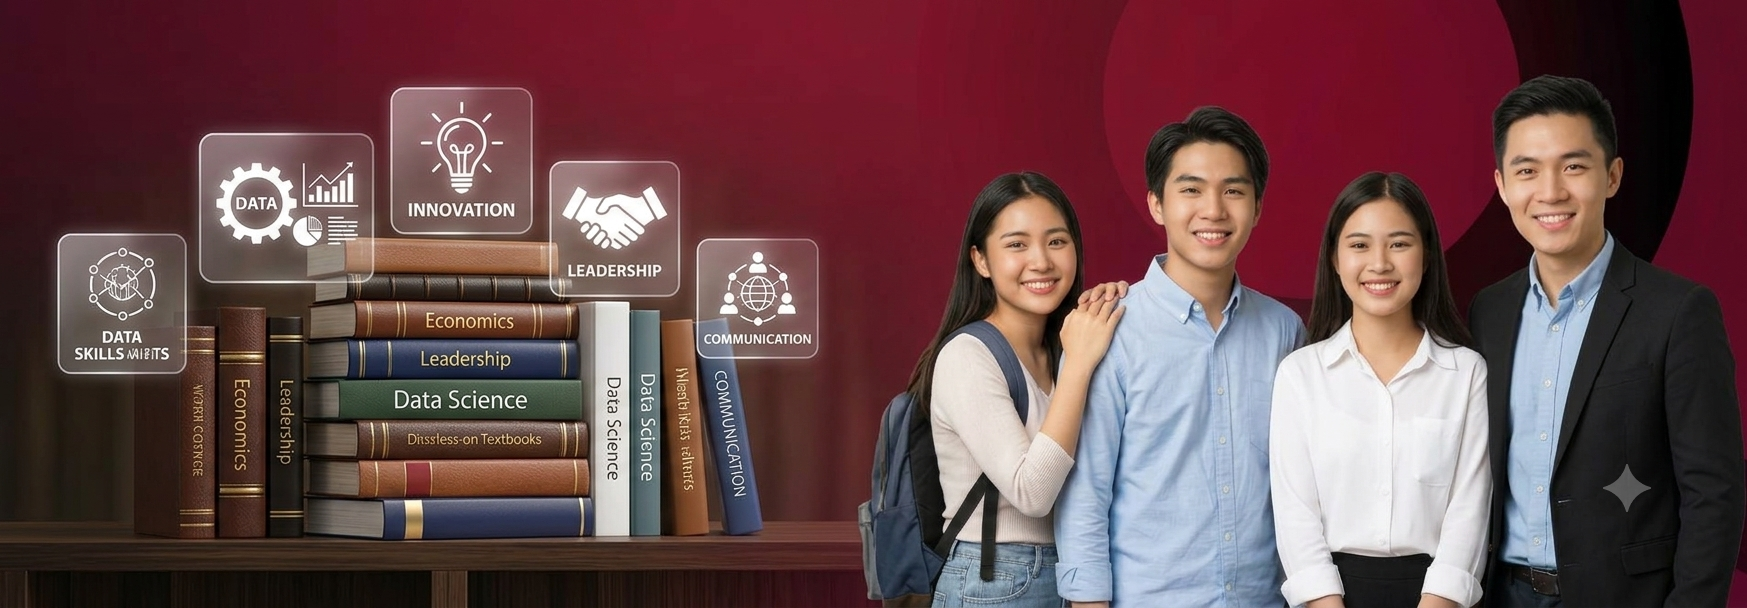
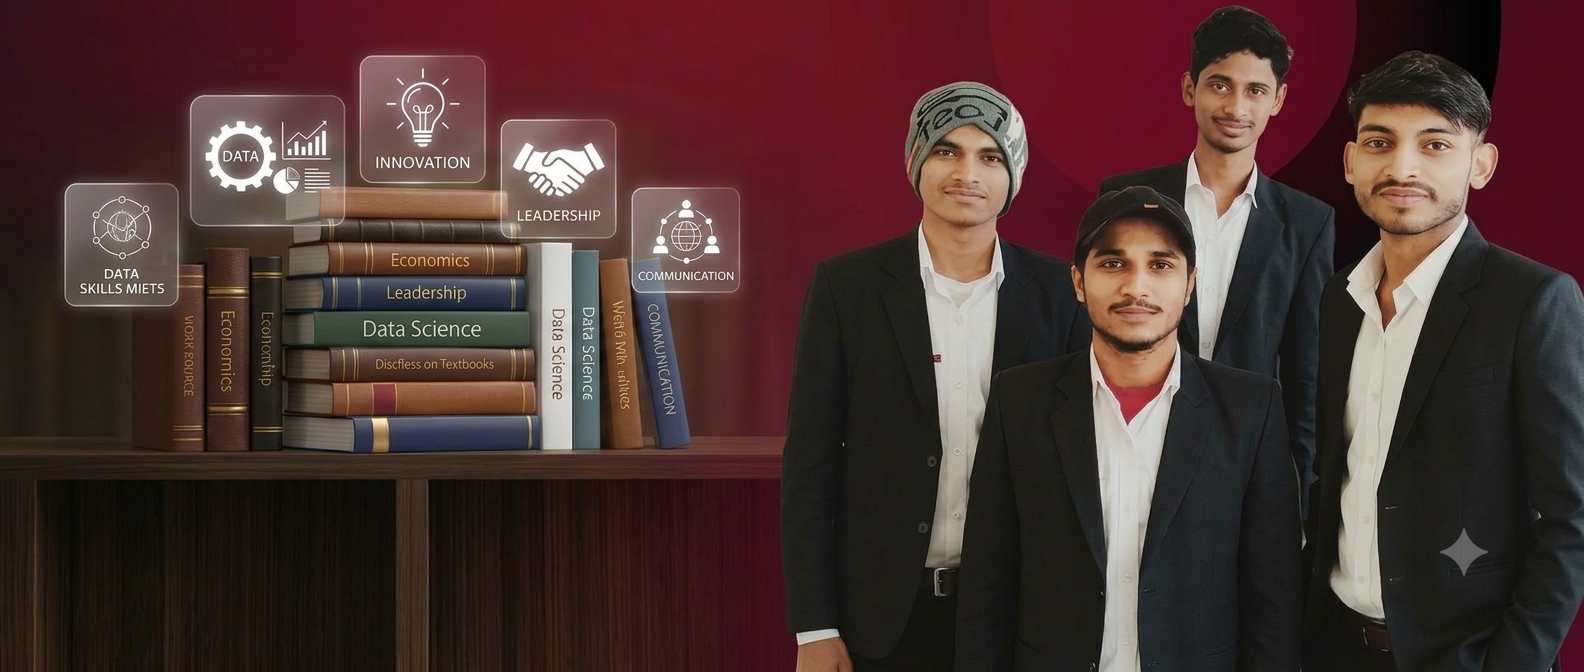
Design sidebar for subject

diff --git a/Frontend/myApp/src/PageTab/Class1.jsx b/Frontend/myApp/src/PageTab/Class1.jsx
@@ -1,19 +1,16 @@
 import React from 'react'
 import "./ForClassPage.css";
+import { Link } from 'react-router-dom';
 const Class1 = () => {
   return (
-    <div id="Class-Design">Class1
-      <p>this is our class page</p>
-      <p>Lorem, ipsum dolor sit amet consectetur adipisicing elit. Exercitationem fugiat quod delectus alias. Aliquam tempora nesciunt quaerat explicabo sunt odio nemo rem. Enim facere in ea nihil a sapiente animi?
-      Voluptas quibusdam commodi qui. Porro laudantium harum ut quisquam recusandae, commodi quos quo sit sequi? Ea cumque, ipsam totam ab sed, eligendi voluptatum nesciunt sequi obcaecati omnis voluptatem similique perspiciatis?
-      Amet, tempora nulla? Odit praesentium eaque ratione harum iure eligendi nemo repellat pariatur veritatis nobis corporis cumque totam rerum, hic ipsa maxime? Dicta quis, vero ipsa architecto dolores cupiditate possimus!
-      Eos inventore est qui cupiditate rem eveniet quod sequi earum similique repellendus dolores, corrupti laudantium iusto voluptates? Quae, impedit. Ex, aliquid sequi ipsum doloremque aspernatur necessitatibus? Nisi corporis incidunt et!
-      Quisquam expedita et deserunt consequatur possimus quas ut facilis, voluptate aut incidunt unde dolorum? Laudantium ipsum voluptatem nam doloremque obcaecati cumque, cupiditate aut explicabo officiis sit, sapiente voluptatum eaque harum?
-      Delectus quasi dolores impedit expedita? Magnam rem voluptate nemo, eligendi vel dolore optio quos itaque vero sapiente quo praesentium voluptatibus tempore, incidunt blanditiis quibusdam qui laborum eos aut quisquam maiores.
-      Quos nisi non nobis eos magni nam, dolor, nostrum sit qui mollitia debitis fuga repudiandae cumque quasi pariatur, corrupti in? Quis amet expedita cum pariatur numquam veniam ea sequi quod.
-      Saepe ratione expedita consectetur deleniti animi rem alias nobis deserunt, quas omnis iste beatae reprehenderit in a hic totam tenetur assumenda similique harum culpa veritatis quaerat minus nostrum architecto. Et.
-      Nostrum, nemo repellendus, quos sit, cum atque optio amet vel ut quasi voluptatibus soluta eaque id dolor consequuntur molestias assumenda corporis in earum temporibus quaerat asperiores unde repudiandae. Eos, necessitatibus.
-      Labore placeat ratione pariatur! Sit, culpa! Obcaecati id aliquid unde architecto veniam perferendis nobis expedita deserunt odit eum soluta temporibus sunt consequatur, amet rem at repudiandae officia cumque et dolorum?</p>
+    <div id="Class-Design">
+        <Link to="/English">English</Link>
+          <Link to="/Hindi">Math</Link>
+          <Link to="/MatheMatics">Math</Link>
+          <Link to="/Sanskrit">Sanskrit</Link>
+          <Link to="/Science">Science</Link>
+          <Link to="/SocialScience">SocialScience</Link>
+    
     </div>
   )
 }

diff --git a/Frontend/myApp/src/PageTab/ForClassPage.css b/Frontend/myApp/src/PageTab/ForClassPage.css
@@ -1,30 +1,56 @@
-#Class-Design{
-  /* background-color: rgb(163, 241, 248); */
-   height: 900px;
-border: 20px; 
-  width: 160px;
-  z-index: 1;
-  top: 0;
-  left: 0;
-  /* background-color: #111; */
+
+#Class-Design {
+  width: 220px;
+  min-width: 220px;
+  height: calc(100vh - 70px);
+
   background-color: rgb(184, 148, 148);
-  overflow-x: hidden;
-  padding-top: 20px;
-  color: white;
-   display: flex;
-  flex-direction: column;
-  align-items: flex-start;
-  gap: 40px;
-  text-decoration: none;
-  position: relative;
-}
-#Class-Design.a{
-  padding: 6px 8px 6px 16px;
-  font-size: 25px;
-  color: white;
-  display: block;
-  /* margin-bottom: 10px; */
+  padding: 20px 10px;
+  box-sizing: border-box;
+
   display: flex;
-  text-decoration: none;
+  flex-direction: column;
+  gap: 15px;
+
+  position: sticky;
+  top: 70px;
+  align-self: flex-start;
+
+  overflow-y: auto;
+  overflow-x: hidden;
+  z-index: 10;
 }
 
+#Class-Design a {
+  display: block;
+  padding: 12px 16px;
+  font-size: 20px;
+  color: white;
+  text-decoration: none;
+  border-radius: 8px;
+  transition: 0.3s ease;
+}
+
+#Class-Design a:hover {
+  background-color: white;
+  color: rgb(150, 100, 100);
+}
+
+#Class-Design a.active {
+  background-color: rgb(150, 100, 100);
+  color: white;
+}
+
+/* Sidebar and subject page side by side */
+.page-layout {
+  display: flex;
+  align-items: stretch;
+  width: 100%;
+  gap: 0;
+}
+
+.page-content {
+  flex: 1;
+  min-width: 0;
+  padding: 20px;
+}

diff --git a/Frontend/myApp/src/PageTab/Class4.jsx b/Frontend/myApp/src/PageTab/Class4.jsx
@@ -1,18 +1,17 @@
 import React from 'react'
 import "./ForClassPage.css";
+import { Link } from 'react-router-dom';
 const Class4 = () => {
   return (
-    <div id="Class-Design">Class4
-    <a href="English">English</a>
-          <a href="Hindi">Hindi</a>
+    <div id="Class-Design">
+    <Link to="/English">English</Link>
+          <Link to="/Hindi">Math</Link>
+          <Link to="/MatheMatics">Math</Link>
+          <Link to="/Sanskrit">Sanskrit</Link>
+          <Link to="/Science">Science</Link>
+          <Link to="/SocialScience">SocialScience</Link>
 
-     <a href="MatheMatics">Math</a>
-
-     <a href="Science">Science</a>
-
-     <a href="Sanskrit">Sanskrit</a>
-
-     <a href="SocialScience">SST</a>
+          
     </div>
   )
 }

diff --git a/Frontend/myApp/src/PageTab/Class9.jsx b/Frontend/myApp/src/PageTab/Class9.jsx
@@ -1,19 +1,17 @@
 import React from 'react'
 import "./ForClassPage.css";
+import { Link } from 'react-router-dom';
+
 const Class9 = () => {
   return (
-    <div id="Class-Design">Class9
+    <div id="Class-Design">
     
-    <a href="English">English</a>
-          <a href="Hindi">Hindi</a>
-
-     <a href="MatheMatics">Math</a>
-
-     <a href="Science">Science</a>
-
-     <a href="Sanskrit">Sanskrit</a>
-
-     <a href="SocialScience">SST</a>
+    <Link to="/English">English</Link>
+          <Link to="/Hindi">Math</Link>
+          <Link to="/MatheMatics">Math</Link>
+          <Link to="/Sanskrit">Sanskrit</Link>
+          <Link to="/Science">Science</Link>
+          <Link to="/SocialScience">SocialScience</Link>
     </div>
   )
 }

diff --git a/Frontend/myApp/src/PageTab/Class7.jsx b/Frontend/myApp/src/PageTab/Class7.jsx
@@ -1,18 +1,16 @@
 import React from 'react'
 import "./ForClassPage.css";
+import { Link } from 'react-router-dom';
+
 const Class7 = () => {
   return (
-    <div id="Class-Design">Class7
-    <a href="English">English</a>
-          <a href="Hindi">Hindi</a>
-
-     <a href="MatheMatics">Math</a>
-
-     <a href="Science">Science</a>
-
-     <a href="Sanskrit">Sanskrit</a>
-
-     <a href="SocialScience">SST</a>
+    <div id="Class-Design">
+    <Link to="/English">English</Link>
+          <Link to="/Hindi">Math</Link>
+          <Link to="/MatheMatics">Math</Link>
+          <Link to="/Sanskrit">Sanskrit</Link>
+          <Link to="/Science">Science</Link>
+          <Link to="/SocialScience">SocialScience</Link>
     
     </div>
   )

diff --git a/Frontend/myApp/src/PageTab/Class5.jsx b/Frontend/myApp/src/PageTab/Class5.jsx
@@ -1,18 +1,16 @@
 import React from 'react'
 import "./ForClassPage.css";
+import { Link } from 'react-router-dom';
+
 const Class5 = () => {
   return (
-    <div id="Class-Design">Class5
-    <a href="English">English</a>
-          <a href="Hindi">Hindi</a>
-
-     <a href="MatheMatics">Math</a>
-
-     <a href="Science">Science</a>
-
-     <a href="Sanskrit">Sanskrit</a>
-
-     <a href="SocialScience">SST</a>
+    <div id="Class-Design">
+    <Link to="/English">English</Link>
+          <Link to="/Hindi">Math</Link>
+          <Link to="/MatheMatics">Math</Link>
+          <Link to="/Sanskrit">Sanskrit</Link>
+          <Link to="/Science">Science</Link>
+          <Link to="/SocialScience">SocialScience</Link>
     </div>
   )
 }

diff --git a/Frontend/myApp/src/PageTab/Class6.jsx b/Frontend/myApp/src/PageTab/Class6.jsx
@@ -1,18 +1,16 @@
 import React from 'react'
 import "./ForClassPage.css";
+import { Link } from 'react-router-dom';
+
 const Class6 = () => {
   return (
-    <div id="Class-Design">Class6
-    <a href="English">English</a>
-          <a href="Hindi">Hindi</a>
-
-     <a href="MatheMatics">Math</a>
-
-     <a href="Science">Science</a>
-
-     <a href="Sanskrit">Sanskrit</a>
-
-     <a href="SocialScience">SST</a>
+    <div id="Class-Design">
+    <Link to="/English">English</Link>
+          <Link to="/Hindi">Math</Link>
+          <Link to="/MatheMatics">Math</Link>
+          <Link to="/Sanskrit">Sanskrit</Link>
+          <Link to="/Science">Science</Link>
+          <Link to="/SocialScience">SocialScience</Link>
     </div>
   )
 }

diff --git a/Frontend/myApp/src/PageTab/Class8.jsx b/Frontend/myApp/src/PageTab/Class8.jsx
@@ -1,18 +1,16 @@
 import React from 'react'
 import "./ForClassPage.css";
+import { Link } from 'react-router-dom';
+
 const Class8 = () => {
   return (
-    <div id="Class-Design">Class8
-    <a href="English">English</a>
-          <a href="Hindi">Hindi</a>
-
-     <a href="MatheMatics">Math</a>
-
-     <a href="Science">Science</a>
-
-     <a href="Sanskrit">Sanskrit</a>
-
-     <a href="SocialScience">SST</a>
+    <div id="Class-Design">
+    <Link to="/English">English</Link>
+          <Link to="/Hindi">Math</Link>
+          <Link to="/MatheMatics">Math</Link>
+          <Link to="/Sanskrit">Sanskrit</Link>
+          <Link to="/Science">Science</Link>
+          <Link to="/SocialScience">SocialScience</Link>
     </div>
   )
 }

diff --git a/Frontend/myApp/src/PageTab/Class2.jsx b/Frontend/myApp/src/PageTab/Class2.jsx
@@ -1,20 +1,16 @@
 import React from 'react'
 import "./ForClassPage.css";
+import { Link } from 'react-router-dom';
 const Class2 = () => {
   return (
     <>
     <div id="Class-Design">
-     <a href="English">English</a>
-          <a href="Hindi">Hindi</a>
-
-     <a href="MatheMatics">Math</a>
-
-     <a href="Science">Science</a>
-
-     <a href="Sanskrit">Sanskrit</a>
-
-     <a href="SocialScience">SST</a>
-
+          <Link to="/English">English</Link>
+          <Link to="/Hindi">Math</Link>
+          <Link to="/MatheMatics">Math</Link>
+          <Link to="/Sanskrit">Sanskrit</Link>
+          <Link to="/Science">Science</Link>
+          <Link to="/SocialScience">SocialScience</Link>
     </div>
     
 </>

diff --git a/Frontend/myApp/src/PageTab/Class3.jsx b/Frontend/myApp/src/PageTab/Class3.jsx
@@ -1,20 +1,18 @@
 import React from 'react'
 import "./ForClassPage.css";
+
 const Class3 = () => {
   return (
     <>
     <div id="Class-Design">Class3
 
-      <a href="English">English</a>
-          <a href="Hindi">Hindi</a>
-
-     <a href="MatheMatics">Math</a>
-
-     <a href="Science">Science</a>
-
-     <a href="Sanskrit">Sanskrit</a>
-
-     <a href="SocialScience">SST</a>
+     <Link to="/English">English</Link>
+          <Link to="/Hindi">Math</Link>
+          <Link to="/MatheMatics">Math</Link>
+          <Link to="/Sanskrit">Sanskrit</Link>
+          <Link to="/Science">Science</Link>
+          <Link to="/SocialScience">SocialScience</Link>
+          
     </div>
 </>
   )

diff --git a/Frontend/myApp/src/HomePage/OurHomePage.jsx b/Frontend/myApp/src/HomePage/OurHomePage.jsx
@@ -3,6 +3,7 @@
 import { Link } from "react-router-dom";
 import image1 from "../assets/Student.png";
 import Videoes from "../assets/videosong.mp4";
+// import image2 from "../assets/FourBanda.png"
 import "./Home.css";
 function OurHomePage() {
   return (
@@ -20,6 +21,10 @@ function OurHomePage() {
       <div id="ExploreButton">
         <Link to="/Subject">EXPLORE NOW</Link>
       </div>
+      {/* <div id="AddingImage">
+            <img id="imgSetup" src={image2} alt="img of students" />
+
+      </div> */}
     </div>
   );
 }

diff --git a/Frontend/myApp/src/PageTab/Class10.jsx b/Frontend/myApp/src/PageTab/Class10.jsx
@@ -1,8 +1,17 @@
 import React from 'react'
 import "./ForClassPage.css";
+import { Link } from 'react-router-dom';
+
 const Class10 = () => {
   return (
-    <div id="Class-Design">Class10</div>
+    <div id="Class-Design">
+    <Link to="/English">English</Link>
+          <Link to="/Hindi">Math</Link>
+          <Link to="/MatheMatics">Math</Link>
+          <Link to="/Sanskrit">Sanskrit</Link>
+          <Link to="/Science">Science</Link>
+          <Link to="/SocialScience">SocialScience</Link>
+    </div>
   )
 }
 
